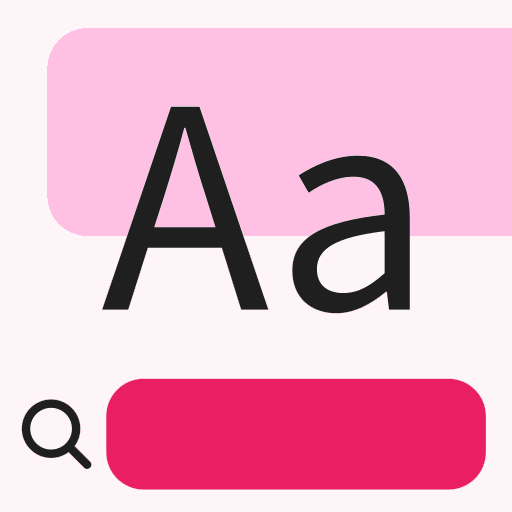
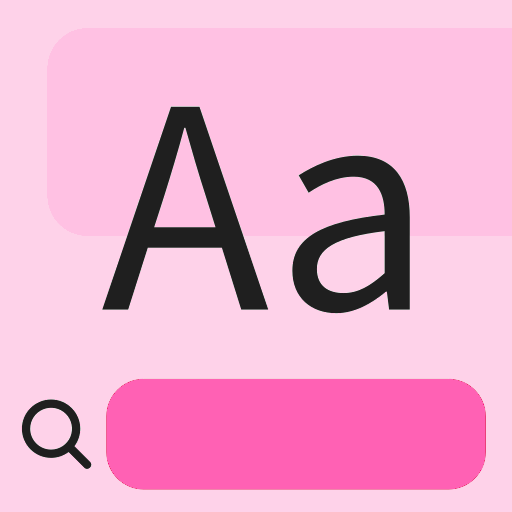
mejoras estilo y chat

diff --git a/src/app/chat/chat-modal/chat-modal.component.ts b/src/app/chat/chat-modal/chat-modal.component.ts
@@ -13,7 +13,6 @@ import { Router } from "@angular/router";
 import { Clipboard } from "@capacitor/clipboard";
 import { Keyboard } from "@capacitor/keyboard";
 import {
-  AlertController,
   IonContent,
   IonInfiniteScroll,
   ModalController,
@@ -59,7 +58,6 @@ export class ChatModalComponent implements OnInit {
   page = 1;
   pressOptions = false;
   selectedMessage: Chat;
-  alertError: any;
   private conversationId: string;
   public replying = false;
   public editing = false;
@@ -73,7 +71,6 @@ export class ChatModalComponent implements OnInit {
     private router: Router,
     public chatSvc: ChatService,
     private toast: ToastController,
-    private alert: AlertController,
     public platform: Platform,
     private config: ConfigService,
     private urlSvc: UrlService,
@@ -110,25 +107,6 @@ export class ChatModalComponent implements OnInit {
       min_version: string;
       chat: boolean;
     } = (await this.config.getConfig()) as any;
-
-    this.alertError = await this.alert.create({
-      header: `Ups, error al conectar`,
-      message:
-        "Es posible que el servicio de chat esté en mantenimiento en estos momentos.",
-      backdropDismiss: false,
-      buttons: [
-        {
-          text: "Intentar reconectar",
-        },
-        {
-          text: "Ok, seré paciente",
-          handler: () => {
-            this.nav.back();
-          },
-        },
-      ],
-      cssClass: "round-alert",
-    });
 
     this.messageEvent.subscribe(async (message) => {
       if (!message) {
@@ -221,74 +199,50 @@ export class ChatModalComponent implements OnInit {
       this.scrollDown(300, true, false);
     } catch (e) {
       console.error(e);
-      await this.alertError.present();
     }
   }
 
   async newMessage(message: Chat) {
-    if (
-      this.messages.some(
-        (m) =>
-          (m.id === message.id && !!m.id) ||
-          (m.tmp_id === message.tmp_id && !!m.tmp_id)
-      )
-    ) {
+    // Verificar si el mensaje ya existe
+    const existingMessage = this.messages.find(
+      (m) =>
+        (m.id === message.id && !!m.id) ||
+        (m.tmp_id === message.tmp_id && !!m.tmp_id)
+    );
+
+    if (existingMessage) {
       // Si ya existe el mensaje lo actualizamos
-      this.messages.map((m) => {
-        if (
-          (m.id === message.id && !!m.id) ||
-          (m.tmp_id === message.tmp_id && !!m.tmp_id)
-        ) {
-          m.id = message.id;
-          m.text = message.text;
-          m.time_read = message.time_read;
-          m.edited = message.edited;
-          m.deleted = message.deleted;
-          m.sending = false;
-          m.event = message.event;
-          m.reply_to = message.reply_to;
-        }
-      });
-      // this.messageChange.emit(message);
+      Object.assign(existingMessage, message);
+      existingMessage.sending = false;
     } else {
+      // Si el mensaje no existe, lo añadimos a la lista
       this.messages = [...this.messages, message];
-      // this.messageChange.emit(message);
-      /* //Opción para ordenar por orden de creación en lugar de recepción
-      this.messages = messages.sort((a, b) => {
-        return (
-          new Date(a.time_creation).getTime() -
-          new Date(b.time_creation).getTime()
-        );
-      });*/
     }
 
+    // Marcamos como leído si el mensaje es del usuario actual y tiene contenido
     if (
       message.fromuser?.id === this.user?.id &&
       (message.text || message.image || message.audio)
     ) {
-      // marcamos como leido
       try {
         if (this.user?.id !== this.auth.currentUserValue.id) {
           message = await this.chatSvc.readChat(message.id);
         }
       } catch (e) {
         console.error(e);
-        await this.alertError.present();
       }
     }
 
+    // Actualizamos el usuario si el mensaje es del usuario actual
     if (message.fromuser?.id === this.user?.id) {
       this.user = message.fromuser;
     }
 
-    // Borramos los deleted
-    this.messages = this.messages.filter((m) => {
-      if (!m.deleted) {
-        return m;
-      }
-    });
+    // Filtramos los mensajes eliminados
+    this.messages = this.messages.filter((m) => !m.deleted);
 
-    this.messages.map((m) => {
+    // Marcamos los mensajes pasados
+    this.messages.forEach((m) => {
       if (new Date(m?.event?.date) < new Date()) {
         m.event.past = true;
       }
@@ -330,6 +284,8 @@ export class ChatModalComponent implements OnInit {
       this.messages = [...this.messages, ...[message]].filter(
         (m: Chat) => m.text || m.image || m.audio
       );
+
+      console.log(this.messages);
 
       this.scrollDown(300, true, true);
       let replyToId =

diff --git a/src/theme/variables.scss b/src/theme/variables.scss
@@ -359,13 +359,21 @@
   }
 
   body.strawberries-and-cream {
+    /** primary **/
+    --ion-color-primary: #ff61b4;
+    --ion-color-primary-rgb: 56, 128, 255;
+    --ion-color-primary-contrast: #ffffff;
+    --ion-color-primary-contrast-rgb: 255, 255, 255;
+    --ion-color-primary-shade: #c2185b;
+    --ion-color-primary-tint: #f06292;
+
     /** dark **/
-    --ion-color-dark: #fef5f9; /* rosa pastel */
+    --ion-color-dark: #fed2e9; /* rosa pastel */
     --ion-color-dark-rgb: 255, 193, 227;
     --ion-color-dark-contrast: #000000; /* negro */
     --ion-color-dark-contrast-rgb: 0, 0, 0;
-    --ion-color-dark-shade: #fed2e9; /* rosa pastel oscuro */
-    --ion-color-dark-tint: #ffcce5; /* rosa pastel claro */
+    --ion-color-dark-shade: #ffc1e3; /* rosa pastel oscuro */
+    --ion-color-dark-tint: #ffc1e3; /* rosa pastel claro */
 
     .ion-color-dark {
       --ion-color-base: var(--ion-color-dark);

diff --git a/src/app/app.component.ts b/src/app/app.component.ts
@@ -1,7 +1,12 @@
 import { Component } from "@angular/core";
 import { Router } from "@angular/router";
 import { Network } from "@capacitor/network";
-import { AlertController, Platform, ToastController } from "@ionic/angular";
+import {
+  AlertController,
+  Platform,
+  ToastController,
+  isPlatform,
+} from "@ionic/angular";
 import { App } from "@capacitor/app";
 import { RateApp } from "capacitor-rate-app";
 import { environment } from "src/environments/environment";
@@ -278,12 +283,8 @@ export class AppComponent {
   }
 
   async initNotifications() {
-    if (this.platform.is("capacitor")) {
-      this.push.init();
-    } else {
-      if (this.auth.currentUserValue && this.auth.currentUserValue.id) {
-        this.push.init();
-      }
+    await this.push.init();
+    if (!isPlatform("capacitor")) {
       this.sw.init();
     }
   }

diff --git a/src/app/login/login.page.ts b/src/app/login/login.page.ts
@@ -119,6 +119,11 @@ export class LoginPage {
 
   async loginWithGoogle() {
     try {
+      this.auth.logoutGoogle();
+    } catch (e) {
+      console.error(e);
+    }
+    try {
       const googleUser = await GoogleAuth.signIn();
       console.log(googleUser);
       if (googleUser.authentication.idToken) {
@@ -143,11 +148,8 @@ export class LoginPage {
           this.showRegister();
           return;
         }
-      } else {
-        this.auth.logoutGoogle();
       }
     } catch (error) {
-      this.auth.logoutGoogle();
       console.error(error);
       if (
         error.toString().includes("popup_closed_by_user") ||
@@ -233,7 +235,6 @@ export class LoginPage {
   }
 
   backToLogin() {
-    this.auth.logoutGoogle();
     this.activeView = "login";
   }
 

diff --git a/src/app/chat/chat.page.ts b/src/app/chat/chat.page.ts
@@ -82,7 +82,7 @@ export class ChatPage implements OnInit {
         }
       });
     } else {
-      const app = initializeApp(environment.firebase);
+      const app = initializeApp(environment.firebase, "chat");
       const messaging = getMessaging(app);
       onMessage(messaging, (payload) => {
         if (payload?.data?.message && payload?.data?.topic === "chat") {

diff --git a/src/app/search/search.page.scss b/src/app/search/search.page.scss
@@ -78,9 +78,14 @@ ion-content {
 
     &:first-child ion-item {
       --background: var(--ion-color-primary);
+      h2,
+      p {
+        color: white !important;
+      }
 
       .match {
         background-color: white;
+        color: var(--ion-color-primary);
         border: 2px solid var(--ion-color-light);
         height: 60px;
         width: 60px;

diff --git a/src/app/admin/admin.page.scss b/src/app/admin/admin.page.scss
@@ -1,14 +1,6 @@
 ion-item,
 ion-item-divider {
   ion-label {
-    --color: white !important;
-  }
-
-  ion-icon {
-    color: white;
-  }
-
-  ion-label {
     p {
       white-space: normal;
       color: white;

diff --git a/src/app/login/activate-account/activate-account.page.html b/src/app/login/activate-account/activate-account.page.html
@@ -38,6 +38,7 @@
         color="primary"
         expand="block"
         type="submit"
+        shape="round"
         [disabled]="codeForm.invalid"
         >Activar la cuenta</ion-button
       >

diff --git a/src/app/pages/page/page.page.scss b/src/app/pages/page/page.page.scss
@@ -53,6 +53,7 @@ ion-thumbnail#cover {
 }
 
 #release {
+  color: var(--ion-color-light);
   position: relative;
   left: 150px;
   top: 8px;
